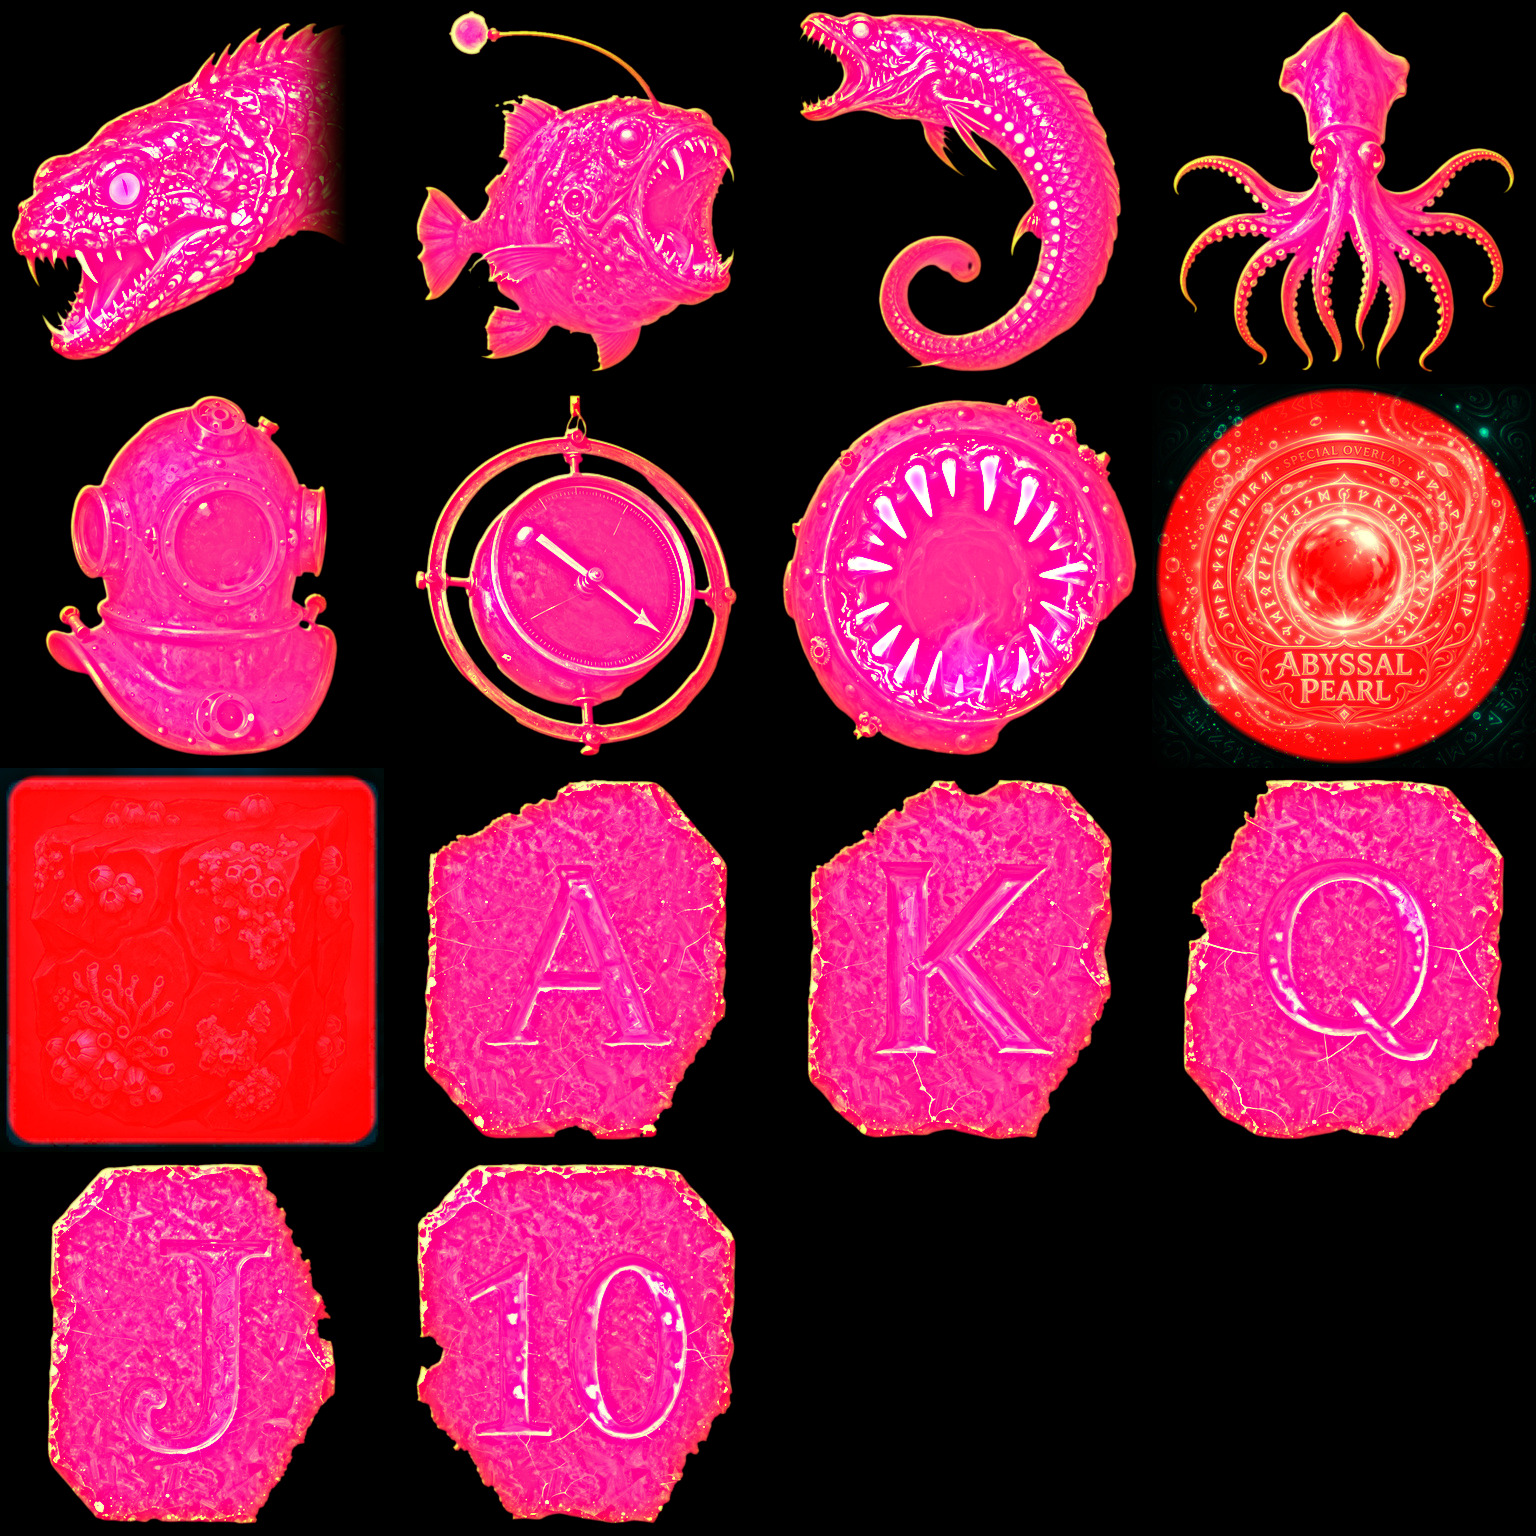
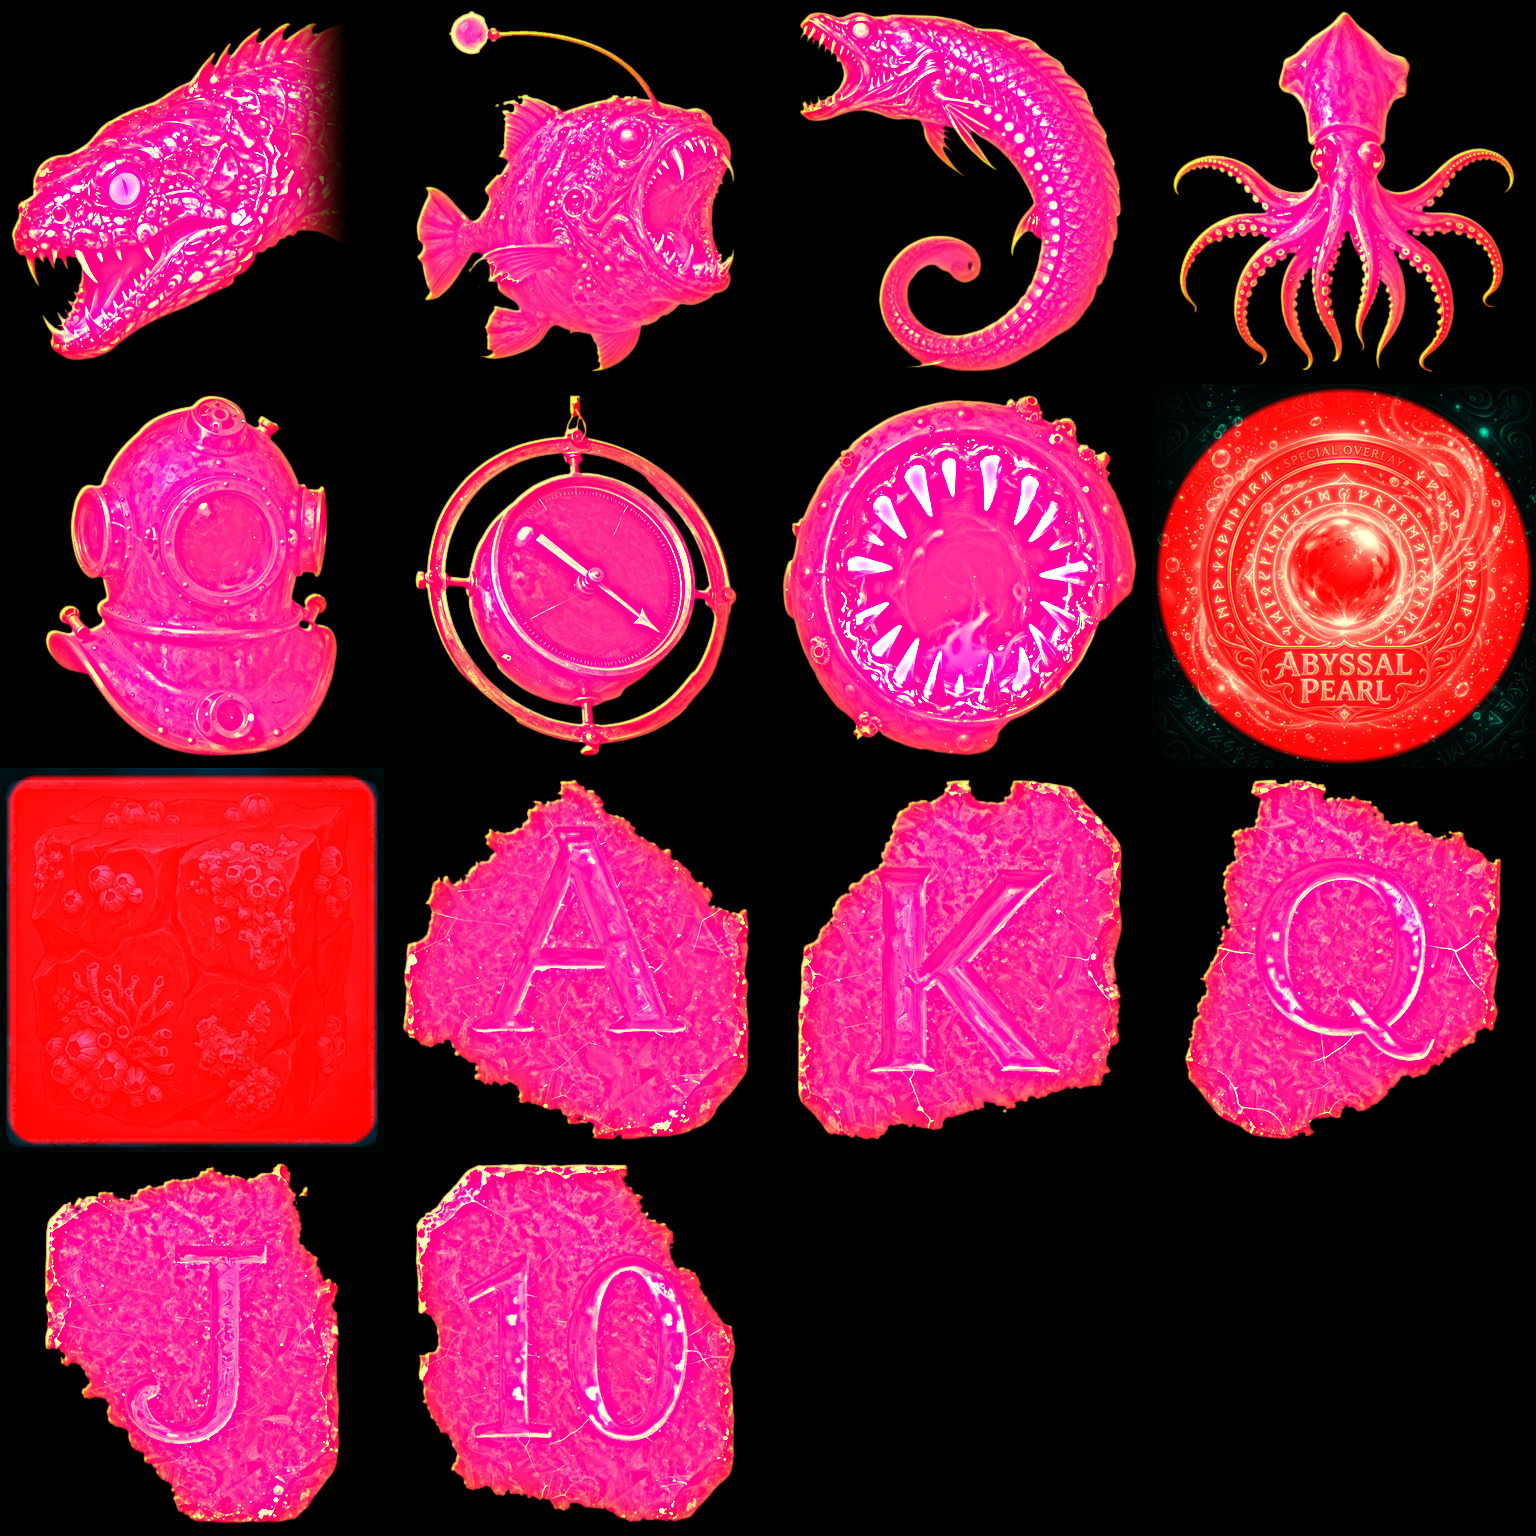
Symbols round three in the game: chipped tablets, helmet lifted, Wild in true blood-red
Repacked from the round-three paintings: every rune tablet has its own fracture, the helmet is no longer
over-darkened, the Wild's throat is Blood #E0314B, win peaks are levelled. Tier gains re-tuned (MID 1.4,
WILD 2.5). Under an 8 px blur on the fixed board: runes 47-74, compass 76-97, helmet 107-120,
fish 139-161, Leviathan 183, Wild 207.

The un-graded <key>_albedo.png set was tried in the game and rejected (flat, grey, the Wild loses its red);
atlas_pack.py keeps it behind --albedo.

diff --git a/slot_engine/static/canvas/index.html b/slot_engine/static/canvas/index.html
@@ -566,8 +566,8 @@ class Component extends DCLogic {
     // the tier ladder on screen (docs/targets/review_round2.md, G1/G2). k = size of the quad relative to the standard one, set so the
     // symbol's longest side is 0.70 / 0.90 / 1.06 / 1.14 / 1.00 of a cell (the atlas fills 0.94 of its tile; the standard quad is 0.89
     // of a cell); g = gain on the lit paint, so creatures out-shine the runes whatever the light is doing
-    const tier = { LOW: { k: 0.836, g: 1.0 }, MID: { k: 1.075, g: 1.7 }, HIGH: { k: 1.266, g: 1.85 }, APEX: { k: 1.362, g: 2.9 },
-      WILD: { k: 1.194, g: 2.2 }, BLOCK: { k: 1.1, g: 1.3 } };
+    const tier = { LOW: { k: 0.836, g: 1.0 }, MID: { k: 1.075, g: 1.4 }, HIGH: { k: 1.266, g: 1.85 }, APEX: { k: 1.362, g: 2.9 },
+      WILD: { k: 1.194, g: 2.5 }, BLOCK: { k: 1.1, g: 1.3 } };   // gains tuned on the graded paintings in generated/targets/symbols
     for (const k2 in sym) sym[k2].tier = tier[sym[k2].cat] || { k: 1, g: 1 };
     // symbol weights per depth level (relative), from config/weights.py after the 96% rebalance: no sediment
     const weights = [

diff --git a/scripts/ai/assetgen/atlas_pack.py b/scripts/ai/assetgen/atlas_pack.py
@@ -93,6 +93,7 @@ def main() -> int:
     ap.add_argument("--out", default=str(ASSETS / "atlas"), help="output prefix; writes <prefix>_{albedo,normal,emissive,aux}.jpg")
     ap.add_argument("--quality", type=int, default=92)
     ap.add_argument("--emissive-gain", type=float, default=0.55)
+    ap.add_argument("--albedo", action="store_true", help="use <key>_albedo.png (un-graded paint) where it exists")
     ap.add_argument("--preview", help="also write a lit preview sheet here")
     a = ap.parse_args()
     src = Path(a.src).resolve()
@@ -103,9 +104,10 @@ def main() -> int:
         if not p.exists():
             continue
         fill = FILL_ALL
-        # <key>_albedo.png, when the artist supplies it, is the un-graded paint meant for the engine's own lighting
+        # <key>_albedo.png is the un-graded paint. Tried in the game (2026-11-14) and rejected: with the tier ladder left to the
+        # shader alone the set goes flat and grey and the Wild loses its red. The graded paintings stay the default.
         pa = src / f"{key}_albedo.png"
-        cell = fit_cell(Image.open(pa if pa.exists() else p), fill)
+        cell = fit_cell(Image.open(pa if (a.albedo and pa.exists()) else p), fill)
         glow = None
         pm, pw = src / f"{key}_emissive.png", src / f"{key}_win.png"
         if pm.exists() and pw.exists():
